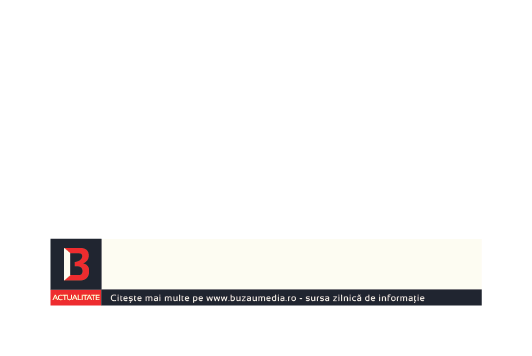
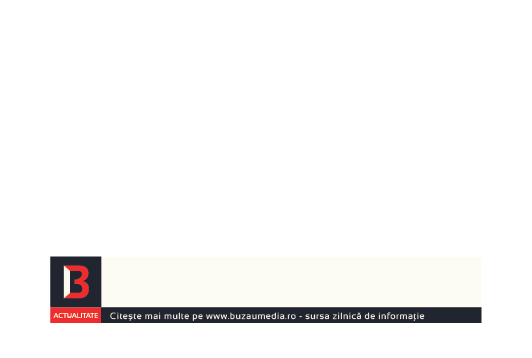
Fix filename encoding issues

Changed region(s): [[0.0902, 0.6489, 0.9323, 0.927]]

diff --git a/bzmark.rb b/bzmark.rb
@@ -41,7 +41,7 @@ class Bzmark
   def add_text
     caption = Magick::Draw.new
     
-    caption.annotate(@source, 382, 27, 110, 258, @line1) do
+    caption.annotate(@source, 382, 27, 110, 278, @line1) do
       caption.font = @@font
       caption.pointsize = @@pointsize
       caption.fill = @@fill
@@ -49,7 +49,7 @@ class Bzmark
     end
     
     if @line2 
-      caption.annotate(@source, 382, 27, 110, 278, @line2) do
+      caption.annotate(@source, 382, 27, 110, 298, @line2) do
         caption.font = @@font
         caption.pointsize = @@pointsize
         caption.fill = @@fill

diff --git a/process.rb b/process.rb
@@ -1,6 +1,6 @@
 # encoding: UTF-8
 require './bzmark'
-files = Dir.entries("input/").select {|f| !File.directory? f}
+files = Dir.entries("input/",{encoding: "utf-8"}).select {|f| !File.directory? f}
 files.each { |file|
     img = Bzmark.new(file)
     img.process
